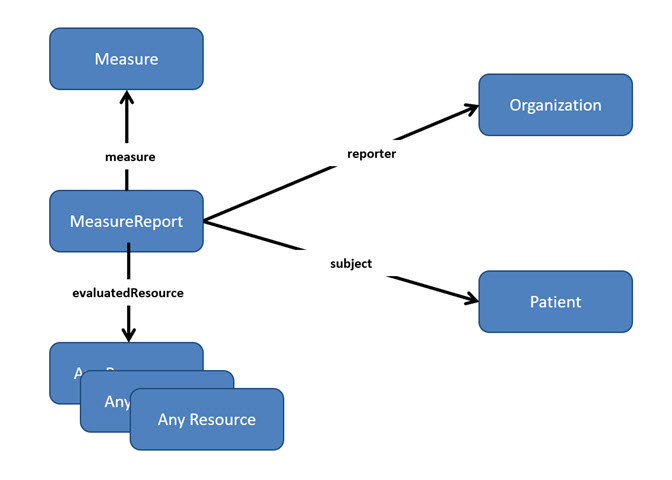
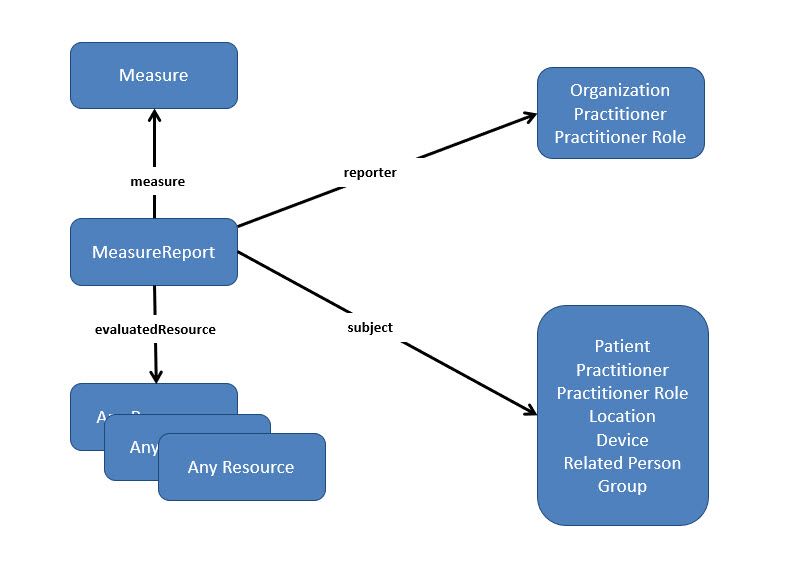
Merge pull request #319 from HL7/dd-deqm-updates-esdm-97
Dd deqm updates esdm 97

Pull request: Dd deqm updates esdm 97
See atomic commits

diff --git a/input/pagecontent/indv-reporting.md b/input/pagecontent/indv-reporting.md
@@ -5,6 +5,12 @@ An individual patient level report contains quality data for one patient for one
 
 The Individual reporting scenario is supported by the [DEQM Individual MeasureReport Profile]. Transactions between Reporters (for example, an organizations that deliver care to patients, such as a practice or hospital) and Receivers (organizations that want to evaluate CQMs, such as quality reporting programs) are triggered by specific administrative events such as the submission of individual patient level quality reports for CQMs to various quality reporting programs.
 
+### DEQM Individual Resource Diagram
+
+The following diagram shows the relationships of resources required for individual reporting. Depending on the specific Measure and interaction being performed, additional DEQM profiles and resources may also be required beyond those listed above.
+
+{% include img-narrow.html  img="individual_reporting_resources.png" caption="Figure 2-9 Individual Reporting" %}
+
 ### Supplemental Data Resources in MeasureReport
 
 The [supplementalData extension](https://hl7.org/fhir/R5/measurereport-definitions.html#MeasureReport.supplementalData) allows supplementalData to be included in the MeasureReport. For supplementalData that is a calculation, this will be a reference to an Observation containing the result of the supplementalData calculation. For supplementalData that is a resource, this will be a reference to the supplementalData resource. For supplementalData that is calculated only for the measure being reported the resource may be in a contained resource.
@@ -13,12 +19,6 @@ The [supplementalData extension](https://hl7.org/fhir/R5/measurereport-definitio
 {:.no_toc}
 
 The [Quality Reporting] Page in the R4 Release of the FHIR Specification provides an overview of CQM structures, how CQMs are represented using the Measure resource, and how CQMs are reported using the MeasureReport resource. The [Reporting Individual Data] section describes how to use a MeasureReport resource to represent the results of an individual calculation, as well as how to use the $evaluate-measure operation to generate an individual MeasureReport from a Measure.
-
-#### Relationship between QI-Core, DEQM, and CQMs
-{:.no_toc}
-{: qualityMeasurementStandardsLandscapeIndv}
-
-<span class="bg-success">As described in the [Quality Measurement Standards Landscape](background.html#quality-measurement-standards-landscape) section of this implementation guide, </span>the QI-Core IG defines a set of FHIR profiles with extensions and bindings needed to create interoperable, quality-focused applications. For implementers that are familiar with the previous generation of standards that supports individual reporting---Quality Data Model (QDM), Clinical Quality Language (CQL), and the Quality Reporting Document Architecture Category I (QRDA Category I), QI-Core profiles are equivalent to the Quality Data Model (QDM) that is used in the QDM-CQL-QRDA paradigm. The collection of resources consisting of the DEQM Individual MeasureReport Profile and the relevant QI-Core and DEQM profiles representing the detailed patient data to support calculations of those CQMs is similar to the QRDA Category I in the QDM-CQL-QRDA paradigm.
 
 ### Constructing an Individual Report
 
@@ -89,26 +89,13 @@ GuidanceResponse resource as shown in the [DEQM Gaps In Care DetectedIssue Profi
 
 {:.no_toc}
 
-### Default Profiles
-
-The following resources are used in all individual reporting transactions.
-
-|Resource Type|Profile Name|Link to Profile|
-|---|---|---|
-|Measure|CRMI Shareable Measure Profile|[CRMI Shareable Measure](https://hl7.org/fhir/uv/crmi/StructureDefinition-crmi-shareablemeasure.html)|
-|Individual MeasureReport|DEQM Individual MeasureReport Profile|[DEQM Individual MeasureReport Profile](StructureDefinition-deqm-individualmeasurereport.html)|
-|Organization|QI Core Organization Profile|[QI Core Organization](https://hl7.org/fhir/us/qicore/StructureDefinition-qicore-organization.html)|
-|Patient|QI Core Patient Profile|[QI Core Patient](https://hl7.org/fhir/us/qicore/StructureDefinition-qicore-patient.html)|
-
-Depending on the specific Measure and Interaction, various DEQM and QI-Core Profiles are used in addition to the profiles listed above.
-
 ### Individual Measure Reporting
 
 When the results of a CQM are completed they are POSTed to the quality measure Receiver's FHIR Server. The Individual MeasureReport(s) and all the referenced resources are bundled together as a set of `POST` interactions and sent as a single [transaction] interaction using the Standard FHIR API.
 
-In order to support real-world implementations (i.e. QPP) where:
+In order to support real-world implementations where:
 
--  External producers submit summary MeasureReport resources for multiple providers (TINs/NPIs) in a single bundle.
+-  External producers submit individual MeasureReport resources for multiple providers in a single bundle.
 
 -  FHIR servers often act as facade layers over existing APIs (e.g., Measurement  /api/submissions/measurements) that perform individual POST/PUT operations atomically.
 
@@ -133,7 +120,7 @@ Note that Multiple individual reports either for the same or multiple patient fo
 </div>
 {: #request-body}
 
-For a complete un-edited examples for both *single* and *multiple* patients see the [MRP Individual MeasureReport], [COL Individual MeasureReport], and [VTE Individual MeasureReport] and [Bundle Multiple Indv Report] examples.  for an example of a Individual MeasureReport with counts for stratifiers specified in an eCQM see the [Indv Measurreport Stratification Example].
+For a complete un-edited examples for both *single* and *multiple* patients see the [MRP Individual MeasureReport], [COL Individual MeasureReport], and [VTE Individual MeasureReport] and [Bundle Multiple Indv Report] examples.  for an example of a Individual MeasureReport with counts for stratifiers specified in a quality measure see the [Indv Measurreport Stratification Example].
 
 <br />
 

diff --git a/input/pagecontent/summary-reporting.md b/input/pagecontent/summary-reporting.md
@@ -10,29 +10,23 @@ The Summary reporting scenario is supported by the [DEQM Summary MeasureReport P
 
 The Quality Reporting Page in the R4 Release of the FHIR Specification provides an overview of CQM structures, how CQMs are represented using the Measure resource, and how CQMs are reported using the MeasureReport resource. The [Reporting Population Data]section describes how to use a MeasureReport resource to represent the results of a summary calculation, as well as how to use the $evaluate-measure operation to generate a summary MeasureReport from a Measure.
 
+### DEQM Summary Resource Diagram
+
+The following diagram shows the relationships of resources required for summary reporting. Depending on the specific Measure and interaction being performed, additional DEQM profiles and resources may also be required beyond those listed above.
+
+{% include img-narrow.html img="summary_resource_diagram.jpg" caption="Figure 2-25 Summary Resource Diagram" %}
+
 ### Supplemental Data Resources in MeasureReport
 
 The [supplementalData extension](https://hl7.org/fhir/R5/measurereport-definitions.html#MeasureReport.supplementalData) allows supplementalData to be included in the MeasureReport. For supplementalData that is a calculation, this will be a reference to an Observation containing the result of the supplementalData calculation. For supplementalData that is a resource, this will be a reference to the supplementalData resource. For supplementalData that is calculated only for the measure being reported the resource may be in a contained resource.
-
-### Relationship between QI-Core, DEQM, and CQMs
-{: #qualityMeasurementStandardsLandscapeSummary}
-<span class="bg-success"> As described in the [Quality Measurement Standards Landscape](background.html#quality-measurement-standards-landscape) section of this implementation guide, </span>the QI-Core IG defines a set of FHIR profiles with extensions and bindings needed to create interoperable, quality-focused applications. For implementers that are familiar with the previous generation of standards that supports summary reporting---Quality Data Model (QDM), Clinical Quality Language (CQL), and the Quality Reporting Document Architecture Category III (QRDA Category III), QI-Core profiles are equivalent to the Quality Data Model (QDM) and the DEQM Summary MeasureReport Profile is equivalent to the QRDA Category III in the QDM-CQL-QRDA paradigm.
-### Default Profiles
-The following resources are used in the summary reporting scenario:
-
-|Resource Type| Profile Name                       | Link to Profile                      |
-|---|------------------------------------|--------------------------------------|
-|Measure| CRMI Shareable Measure Profile     | [CRMI Shareable Measure](https://hl7.org/fhir/uv/crmi/StructureDefinition-crmi-shareablemeasure.html)             |
-|Summary MeasureReport| DEQM Summary MeasureReport Profile | [DEQM Summary MeasureReport Profile](StructureDefinition-deqm-summarymeasurereport.html) |
-|Organization| QI Core Organization Profile       | [QI Core Organization](https://hl7.org/fhir/us/qicore/StructureDefinition-qicore-organization.html)               |
 
 ### Summary Measure Reporting
 {: #summary-measure-reporting}
 When the results of a quality measure are completed for a population at the end of a measurement period, they are POSTed to the quality measure Receiver's FHIR Server. The report may only consist of the Summary MeasureReport in which case it is POSTed to the MeasureReport endpoint.  If there are other referenced resources all the resources are bundled together as a set of `POST` interactions and sent as a single [transaction] interaction using the Standard FHIR API. Multiple summary results can be sent in a single FHIR Bundle as described [here](indv-reporting.html#individual-measure-reporting).  (Note that if the Bundle consist of only Summary MeasureReports, then a [collection] bundle is used.)
 
-In order to support real-world implementations (i.e. QPP) where:
+In order to support real-world implementations where:
 
--  External producers submit summary MeasureReport resources for multiple providers (TINs/NPIs) in a single bundle.
+-  External producers submit summary MeasureReport resources for multiple providers in a single bundle.
 
 -  FHIR servers often act as facade layers over existing APIs (e.g., Measurement  /api/submissions/measurements) that perform individual POST/PUT operations atomically.
 
@@ -59,7 +53,7 @@ for a Bundle Transaction:
 
 {% include examplebutton.html example="mrp-summary-report-example" b_title = "Click Here To See POST summary Report Example" %}
 
-for an example of a Summary MeasureReport with counts for multiple populations and stratifiers specified in an eCQM see the [Medicare Stratification Example].  For an example of a Bundle of multiple summary results see the [Bundle Multiple Summ Report].
+for an example of a Summary MeasureReport with counts for multiple populations and stratifiers specified in a quality measure see the [Medicare Stratification Example].  For an example of a Bundle of multiple summary results see the [Bundle Multiple Summ Report].
 
 <br />
 

diff --git a/input/pagecontent/datax.md b/input/pagecontent/datax.md
@@ -22,29 +22,13 @@ Note that FHIR operations allow the implementation to be viewed as a 'black box'
   This project recognizes the impact of the [Argonaut Clinical Data Subscriptions] project which is working on event based subscriptions and major revisions to the Subscription resource for FHIR R5. In a future version this guide, a subscription based exchange <!-- in which the Consumer may subscribe to a Producer's Subscription service to be notified when the CQM data is available --> is planned and will align with the outcomes of the Argonaut project.
   {:.stu-note}
 
-### Default Profiles
 
-The following resources are used in all data exchange transactions:
-
-
-| Resource Type | Profile Name                             | Link to Profile                            |
-|---------------|------------------------------------------|--------------------------------------------|
-| Library       | CRMI Shareable Library                   | [CRMI Shareable Library](https://hl7.org/fhir/uv/crmi/StructureDefinition-crmi-shareablelibrary.html)                   |
-| Measure       | CRMI Shareable Measure                   | [CRMI Shareable Measure](https://hl7.org/fhir/uv/crmi/StructureDefinition-crmi-shareablemeasure.html)                   |
-| MeasureReport | DEQM Data Exchange MeasureReport Profile | [DEQM Data Exchange MeasureReport Profile](StructureDefinition-deqm-dataexchangemeasurereport.html) |
-| Organization  | QI Core Organization Profile             | [QI Core Organization](https://hl7.org/fhir/us/qicore/StructureDefinition-qicore-organization.html)                     |
-| Patient       | QI Core Patient Profile                  | [QI Core Patient](https://hl7.org/fhir/us/qicore/StructureDefinition-qicore-patient.html)                          |
-| Practitioner  | QI Core Practitioner Profile             | [QI Core Practitioner](https://hl7.org/fhir/us/qicore/StructureDefinition-qicore-practitioner.html)                     |
-
-
-Depending on the specific Measure, various DEQM and QI Core Profiles are also used in addition to the profiles listed above
-
-#### Graph of DEQM Resources
+### Graph of DEQM Resources
 {:.no_toc}
 
 The DEQM resources form a network through their relationships with each other - either through a direct reference to another resource or through a chain of intermediate references. These groups of resources are referred to as resources graphs.  The DEQM data exchange resource graph is shown in Figure 2-1, below. The resource graph shows data for a single measure for a single patient, but as described below and in [DEQM Operations Bundles Organized by Subject](guidance.html#deqm-operation-bundles-organized-by-subject), the DEQM data exchange operations are designed to allow for multiple measures across multiple patients.
 
-{% include img.html img="measure-resource-graph.jpg" caption="Figure 2-1 DEQM Resource Graph" %}
+{% include img.html img="measure-resource-graph.jpg" caption="Figure 2-1 DEQM Data Exchange Resource Diagram" %}
 
 
 ### Submit Data

diff --git a/input/pagecontent/index.md b/input/pagecontent/index.md
@@ -14,7 +14,7 @@ This implementation guide defines a framework to support quality measurement, re
 
 Interoperability challenges have limited many stakeholders in the healthcare community from achieving better care at lower cost. The dual challenges of data standardization and easy information access are compromising the ability of both payers and providers to create efficient care delivery solutions and effective care management models. To promote interoperability across value-based care stakeholders and to guide the development and deployment of interoperable solutions on a national scale, the industry needs common information models and data exchange standards. The intent of the framework defined in this guide is to enable automatic data collection and submission limiting the need for manual processing and intervention.  Ultimately, a national standard based on FHIR for data structure and exchange will reduce the burden on clinicians of transforming data between systems.
 
-The guide is based upon prior work from the [US Core](https://hl7.org/fhir/us/core/) and [QI-Core](https://hl7.org/fhir/us/qicore/) Implementation Guides and the [QRDA] Category I and III reporting specifications. Initially supported by the [Da Vinci] initiative, development and ongoing maintenance of this specification is managed by the sponsoring HL7 [Clinical Quality Information (CQI)] and [Clinical Decision Support (CDS)] workgroups. Implementation feedback is incorporated through the standard HL7 balloting process.
+The guide is based upon prior work from the [US Core](https://hl7.org/fhir/us/core/) and [QI-Core](https://hl7.org/fhir/us/qicore/) Implementation Guides and the [QRDA Category I](https://www.hl7.org/implement/standards/product_brief.cfm?product_id=35) and [QRDA III](https://www.hl7.org/implement/standards/product_brief.cfm?product_id=286) reporting specifications. Initially supported by the [Da Vinci] initiative, development and ongoing maintenance of this specification is managed by the sponsoring HL7 [Clinical Quality Information (CQI)] and [Clinical Decision Support (CDS)] workgroups. Implementation feedback is incorporated through the standard HL7 balloting process.
 
 ### How to read this Guide
 